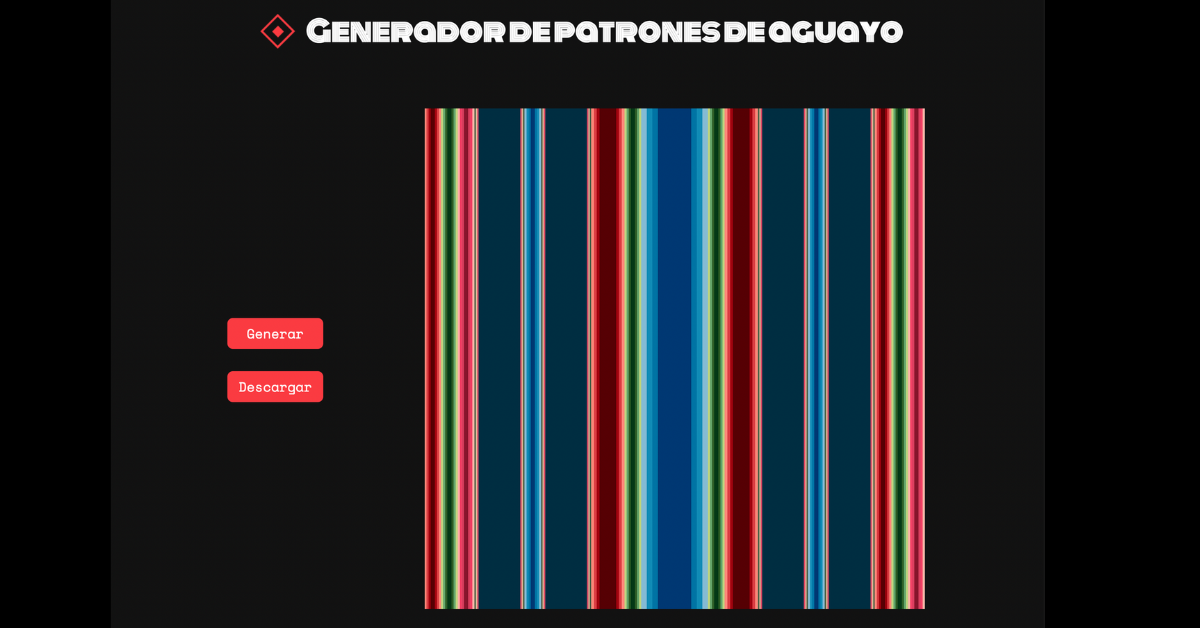
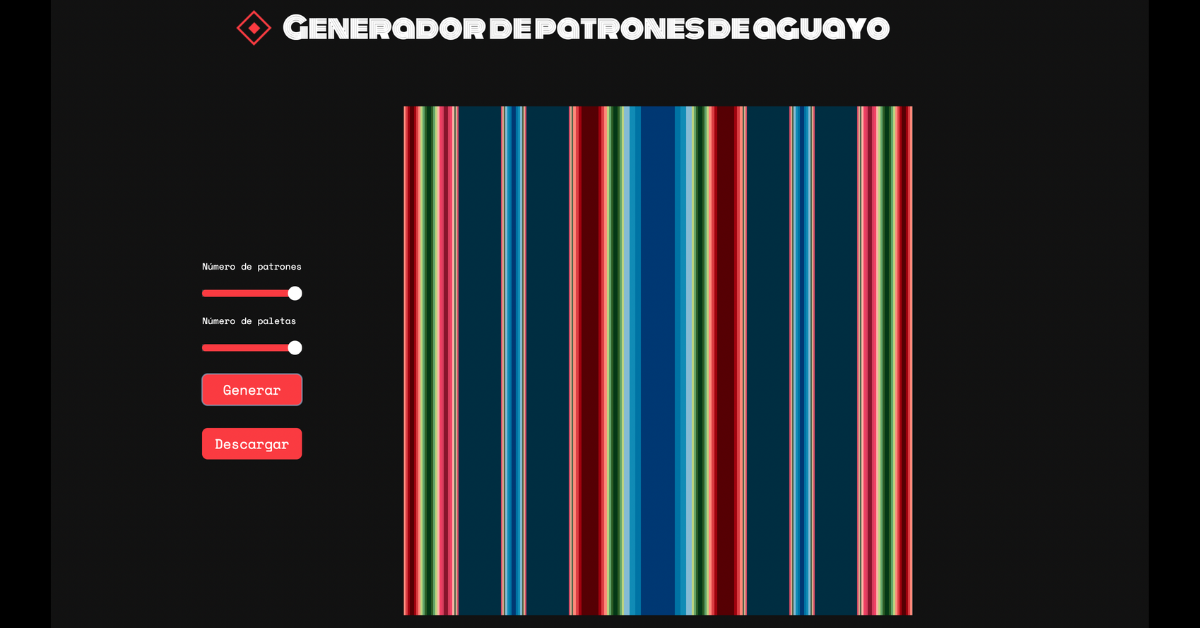
sliders y nuevos colores

diff --git a/sketch.js b/sketch.js
@@ -15,7 +15,8 @@
 let posicionX = 0;
 let generados = 0;
 let paletasArray;
-
+let nPatrones = 1;
+let nPaletas = 3;
 // es escritorio
 let lienzoAncho = 720;
 let lienzoAlto = 720;
@@ -37,17 +38,16 @@ function setup() {
         lienzoAlto = 360;
         patronAncho = 12;
         breakpoints = [0, 36, 72, 108, 144, 180, 216, 252, 288, 324, 360];
-        noLoop();
     }
 
     var canvas = createCanvas(lienzoAncho, lienzoAlto);
     canvas.parent('canvas-container');
     background(100);
-    estructuraLienzo(breakpoints);
+    // estructuraLienzo(breakpoints);
 
     const botonGenerar = select('#generate');
     botonGenerar.mousePressed(() => {
-        generarTodo();
+        generarTodo(nPatrones, nPaletas);
         generados++;
     });
 
@@ -56,6 +56,19 @@ function setup() {
         saveCanvas('aguayo', 'png');
     }
     );
+
+    const sliderPatrones = select('#numPatrones');
+    sliderPatrones.input(() => {
+        nPatrones = sliderPatrones.value();
+    });
+
+    const sliderPaletas = select('#numPaletas');
+    sliderPaletas.input(() => {
+        nPaletas = sliderPaletas.value();
+    });
+
+
+    noLoop();
 }
 
 function draw() {
@@ -74,11 +87,12 @@ function estructuraLienzo(breakpoints) {
 }
 
 // funcion general de generar patrones
-function generarTodo() {
+function generarTodo(nPatrones, nPaletas) {
     console.log(generados);
+    console.log(nPatrones + ' patrones' + ' ' + nPaletas + ' paletas');
     let paletas = [];
-    if (generados < 5) {
-        // divide the array in chunks of 5 consecutive subarray, then select a random chunk
+
+    if (generados < 10) {
         let paletasChunks = [];
         for (let i = 0; i < paletasArray.length; i += 5) {
             let chunk = paletasArray.slice(i, i + 5);
@@ -87,7 +101,7 @@ function generarTodo() {
         paletas = randomElement(paletasChunks);
     }
 
-    if (generados >= 5) {
+    if (generados >= 10) {
         let paletasRandom = [];
         for (let i = 0; i < 5; i++) {
             let paleta = randomElement(paletasArray);
@@ -96,25 +110,50 @@ function generarTodo() {
         paletas = paletasRandom;
     }
 
-    // if (generados >= 30) {
-    //     // combine elements from different paletas subarrays
-    //     let paletasRandomCombinadas = [];
-    //     for (let i = 0; i < 5; i++) {
-    //         let paleta = [];
-    //         for (let j = 0; j < paletasArray.length; j++) {
-    //             paleta.push(paletasArray[j][i]);
-    //         }
-    //         paletasRandomCombinadas.push(paleta);
-    //     }
-    //     paletas = paletasRandomCombinadas;
+    paletas = paletas.slice(0, nPaletas);
 
-    // }
+    if (nPatrones === 4) {
+        generarBloque0(paletas);
+        generarBloque1(paletas);
+        generarBloque2(paletas);
+        generarBloque1(paletas);
+        generarBloque0Reverso(paletas);
+    }
 
-    generarBloque0(paletas);
-    generarBloque1(paletas);
-    generarBloque2(paletas);
-    generarBloque1(paletas);
-    generarBloque0(paletas);
+    if (nPatrones === 3) {
+        generarBloque0(paletas);
+        generarBloque0Reverso(paletas);
+        patron2(posicionX, paletas[0]);
+        patron2(posicionX, paletas[1]);
+        generarBloque2(paletas);
+        patron2(posicionX, paletas[1]);
+        patron2(posicionX, paletas[0]);
+        generarBloque0Reverso(paletas);
+        generarBloque0(paletas);
+    }
+
+    if (nPatrones === 2) {
+        generarBloque0(paletas);
+        generarBloque0(paletas);
+        patron2(posicionX, paletas[0]);
+        patron2(posicionX, paletas[0]);
+        patron2(posicionX, paletas[0]);
+        generarBloque0(paletas);
+        generarBloque0(paletas);
+        patron2(posicionX, paletas[0]);
+        patron2(posicionX, paletas[0]);
+        patron2(posicionX, paletas[0]);
+        generarBloque0Reverso(paletas);
+        generarBloque0Reverso(paletas);
+
+    }
+
+    if (nPatrones === 1) {
+        for (let i = 0; i < 10; i++)
+            generarBloque0(paletas);
+
+    }
+
     posicionX = 0;
 }
 function generarRandom() {
@@ -135,19 +174,43 @@ function generarBloque0(paletas) {
 }
 
 function generarBloque1(paletas) {
-    patron1(posicionX, paletas[4]);
-    patron0(posicionX, paletas[3]);
-    patron1(posicionX, paletas[4]);
+    if (paletas.length === 5) {
+        patron1(posicionX, paletas[4]);
+        patron0(posicionX, paletas[3]);
+        patron1(posicionX, paletas[4]);
+    } else if (paletas.length === 4) {
+        patron1(posicionX, paletas[3]);
+        patron0(posicionX, paletas[2]);
+        patron1(posicionX, paletas[3]);
 
+    } else {
+        patron1(posicionX, paletas[0]);
+        patron0(posicionX, paletas[1]);
+        patron1(posicionX, paletas[0]);
+    }
 
 }
 
 function generarBloque2(paletas) {
-    patron2(posicionX, paletas[0]);
-    patron0(posicionX, paletas[1]);
-    patron3(posicionX, paletas[3]);
-    patron0(posicionX, paletas[1]);
-    patron2(posicionX, paletas[0]);
+    if (paletas.length >= 4) {
+        patron2(posicionX, paletas[0]);
+        patron0(posicionX, paletas[1]);
+        patron3(posicionX, paletas[3]);
+        patron0(posicionX, paletas[1]);
+        patron2(posicionX, paletas[0]);
+    } else {
+        patron2(posicionX, paletas[0]);
+        patron0(posicionX, paletas[1]);
+        patron3(posicionX, paletas[2]);
+        patron0(posicionX, paletas[1]);
+        patron2(posicionX, paletas[0]);
+    }
+}
+
+function generarBloque0Reverso(paletas) {
+    for (let i = 2; i >= 0; i--) {
+        patron0(posicionX, paletas[i]);
+    }
 }
 
 // patrones de franjas
@@ -358,6 +421,7 @@ function patron3(inicio, paleta) {
 
         }
     }
+    // adorno1(inicio, paleta);
     posicionX = posicionX + ancho;
 
 }
@@ -397,7 +461,7 @@ function patronOld2(inicio) {
 
 function adorno1(inicio, paleta) {
     let offsetCenter = 30;
-    let offsetX = 14;
+    let offsetX = 18;
     let offsetY = 15;
     ellipseMode(CENTER);
     rectMode(CENTER);
@@ -417,9 +481,7 @@ function adorno1(inicio, paleta) {
 
 }
 
-
 // colores
-
 paletasSaturadas = [
     ['red', 'orange', 'yellow', 'orange', 'red'],
     ['blue', 'skyblue', 'white', 'skyblue', 'blue'],
@@ -434,4 +496,29 @@ function funcionEscalonada(x, inset, step) {
 function randomElement(array) {
     let element = array[Math.floor(Math.random() * array.length)];
     return element;
+}
+
+// get nPaletas to generate a n number of paletas
+function nPaletasRandom(nPaletas) {
+    let paletas = [];
+    for (let i = 0; i < nPaletas; i++) {
+        paletas.push(paletasRandom());
+    }
+    return paletas;
+}
+
+// get a random paleta
+function paletasRandom() {
+    let paleta = [];
+    for (let i = 0; i < 4; i++) {
+        paleta.push(randomColor());
+    }
+    return paleta;
+}
+
+
+// get a random color from a paleta
+function randomColorFromPaleta(paleta) {
+    let color = paleta[Math.floor(Math.random() * paleta.length)];
+    return color;
 }

diff --git a/style.css b/style.css
@@ -38,6 +38,24 @@ h1 {
     font-size: 2.5rem;
 }
 
+body:after {
+    content: "beta";
+    position: fixed;
+    width: 80px;
+    height: 25px;
+    background: white;
+    top: 7px;
+    left: -20px;
+    text-align: center;
+    font-size: 13px;
+    font-family: sans-serif;
+    text-transform: uppercase;
+    font-weight: bold;
+    color: black;
+    line-height: 27px;
+    transform: rotate(-45deg);
+}
+
 /* MAIN */
 
 main {
@@ -80,6 +98,49 @@ main {
     background-color: hsl(358, 96%, 41%);
 }
 
+/* SLIDERS */
+
+/* select input range and style that and his labels */
+input[type=range] {
+    -webkit-appearance: none;
+    width: 100%;
+    margin: 1rem 0;
+}
+
+input[type=range]:focus {
+    outline: none;
+}
+
+input[type=range]::-webkit-slider-runnable-track {
+    width: 100%;
+    height: 10px;
+    cursor: pointer;
+    animate: 0.2s;
+    box-shadow: 0px 0px 0px #000000;
+    background: #FB3B42;
+    border-radius: 0.5rem;
+    border: 0px solid #000000;
+}
+
+input[type=range]::-webkit-slider-thumb {
+    box-shadow: 0px 0px 0px #000000;
+    border: 0px solid #000000;
+    height: 20px;
+    width: 20px;
+    border-radius: 50%;
+    background: white;
+    cursor: pointer;
+    -webkit-appearance: none;
+    margin-top: -5px;
+}
+
+/* select labels */
+.botones label {
+    font-family: 'Space Mono';
+    font-size: 0.8rem;
+    margin-block: 0.5rem;
+}
+
 /* CANVAS */
 
 #canvas-container {
@@ -98,6 +159,7 @@ footer {
     width: 100%;
     text-align: center;
 }
+
 
 
 /* MEDIA QUERIES */

diff --git a/index.html b/index.html
@@ -41,7 +41,12 @@
     </header>
 
     <main>
+
         <div class="botones">
+            <label for="numPatrones">Número de patrones</label>
+            <input id="numPatrones" type="range" min="1" max="4" value="1" step="1" />
+            <label for="numPaletas">Número de paletas</label>
+            <input id="numPaletas" type="range" min="3" max="5" value="3" step="1" />
             <button id="generate">Generar</button>
             <button id="download">Descargar</button>
         </div>
@@ -49,7 +54,7 @@
     </main>
 
     <footer>
-        Desarrollado por el <a href="https://labtecnosocial.org/">Lab TecnoSocial</a>
+        <p>Desarrollado por el <a href="https://labtecnosocial.org/">Lab TecnoSocial</a></p>
     </footer>
 </body>
 
